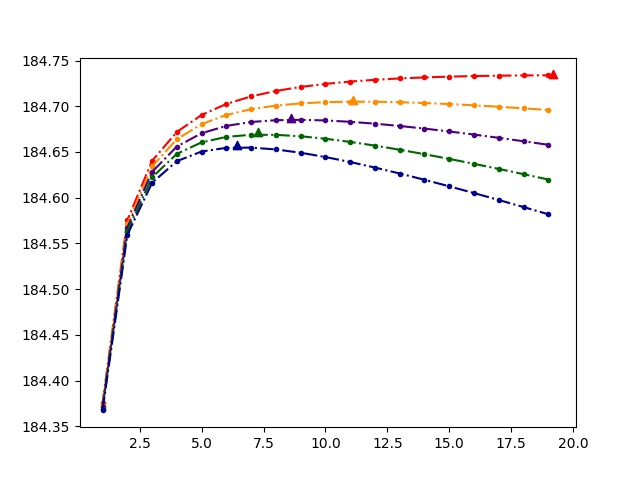
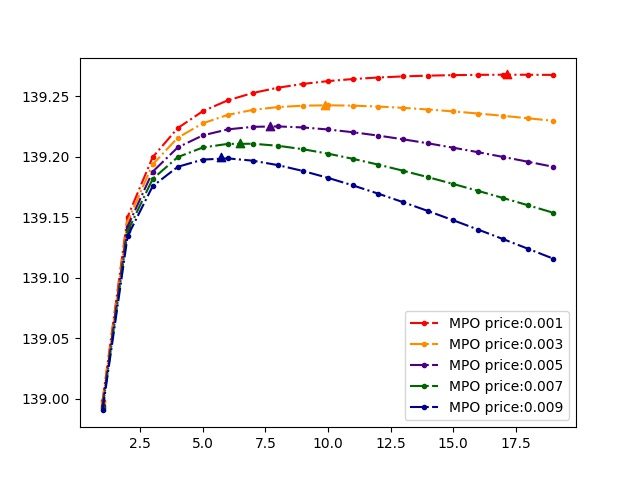
add legend

diff --git a/simulation_code/asp.py b/simulation_code/asp.py
@@ -18,8 +18,8 @@ class ASP():
         self.total_pay()
         self.mpo_price = None
         self.chi = 0.999
-        self.gamma = 10000
-        self.phi = 0.9
+        self.gamma = 100
+        self.phi = 0.1
 
     def set_users(self):
         for i in range(self.num_of_normal_users):
@@ -79,6 +79,7 @@ class ASP():
             self.z_v = sqrt(self.total_payment / ((ASP_DEVICE_LATENCY_UPPER - ASP_DEVICE_LATENCY_LOWER) * self.mpo_price * ((1 - self.chi) * self.service_rate + self.chi * GLOBAL_ETA))) + self.arrival_rate / ((1 - self.chi) * self.service_rate + self.chi * GLOBAL_ETA)
             if self.z_v < (self.gamma + self.arrival_rate) / self.service_rate:
                 self.z_v = (self.gamma + self.arrival_rate) / self.service_rate
+                print('queue')
             self.z_h = self.chi * self.z_v
             self.set_process_time()
             self.set_utility()
@@ -86,11 +87,13 @@ class ASP():
                 print('infeasible')
             if self.utility < 0:
                 self.z_v = 0
-                return
+            if self.z_v > (self.gamma + self.arrival_rate) / self.service_rate and self.utility >= 0:
+                print('extreme')
         else:
             self.z_v = 1 / self.service_rate * sqrt(self.service_rate * self.total_payment / ((ASP_DEVICE_LATENCY_UPPER - ASP_DEVICE_LATENCY_LOWER) * self.mpo_price)) + self.arrival_rate / self.service_rate
             if self.z_v < (self.gamma + self.arrival_rate) / self.service_rate:
                 self.z_v = (self.gamma + self.arrival_rate) / self.service_rate
+                print('queue')
             if ((self.phi - 1) * self.z_v * self.service_rate + self.arrival_rate) / (GLOBAL_ETA - self.service_rate) < 0:
                 print("infeasible")
             self.z_h = 0
@@ -98,7 +101,9 @@ class ASP():
             self.set_utility()
             if self.utility < 0:
                 self.z_v = 0
-                return
+            if self.z_v > (self.gamma + self.arrival_rate) / self.service_rate and self.utility >= 0:
+                print('extreme')
+
     def plot_max(self):
         mpo_lst = [0.001, 0.003, 0.005, 0.007, 0.009]
         color_dict = {0.001 : 'red', 0.003 : 'darkorange', 0.005 : 'indigo', 0.007 : 'darkgreen', 0.009 : 'darkblue'}
@@ -120,7 +125,8 @@ class ASP():
                     self.set_utility()
                     z_v.append(self.z_v)
                     ut.append(self.utility)
-                plt.plot(z_v, ut, marker='.', color=color_dict[mpo_price], linestyle='-.')
+                plt.plot(z_v, ut, marker='.', color=color_dict[mpo_price], linestyle='-.', label=f"MPO price:{mpo_price}")
+                plt.legend(loc="best")
                 z_v = []
                 ut = []
             plt.savefig('./asp_utility_case1.jpg')
@@ -142,7 +148,8 @@ class ASP():
                     self.set_utility()
                     z_v.append(self.z_v)
                     ut.append(self.utility)
-                plt.plot(z_v, ut, marker='.', color=color_dict[mpo_price], linestyle='-.')
+                plt.plot(z_v, ut, marker='.', color=color_dict[mpo_price], linestyle='-.', label=f"MPO price:{mpo_price}")
+                plt.legend(loc="best")
                 ut = []
                 z_v = []
             plt.savefig('./asp_utility_case2.jpg')

diff --git a/simulation_code/mpo.py b/simulation_code/mpo.py
@@ -27,8 +27,8 @@ class MPO():
         return tot
 
     def optimize_phi(self):
-        phi = 40
-        step = 1E-1
+        phi = 1000
+        step = 6
         pr = []
         ut = []
         for _ in range(1000):
@@ -42,7 +42,7 @@ class MPO():
             #     asp.optimize_zv()
             # vm_after = self.total_vm()
             pr.append(phi)
-            ut.append(phi * vm_prior)
+            ut.append(phi * vm_prior - MPO_cost(vm_prior))
             phi += step
             # print(vm_after)
             # if ((vm_prior * phi) - (vm_after * (phi + step))) <= 0:

diff --git a/simulation_code/const.py b/simulation_code/const.py
@@ -70,6 +70,7 @@ def ASP_H(x):
 # These are the parameters of MPO
 # Prefix with MPO_
 ########################################
-
 MPO_NUM_OF_ASP_UPPER = 50
 MPO_NUM_OF_ASP_LOWER = 25
+def MPO_cost(x):
+    return 0.05 * x ** 2
